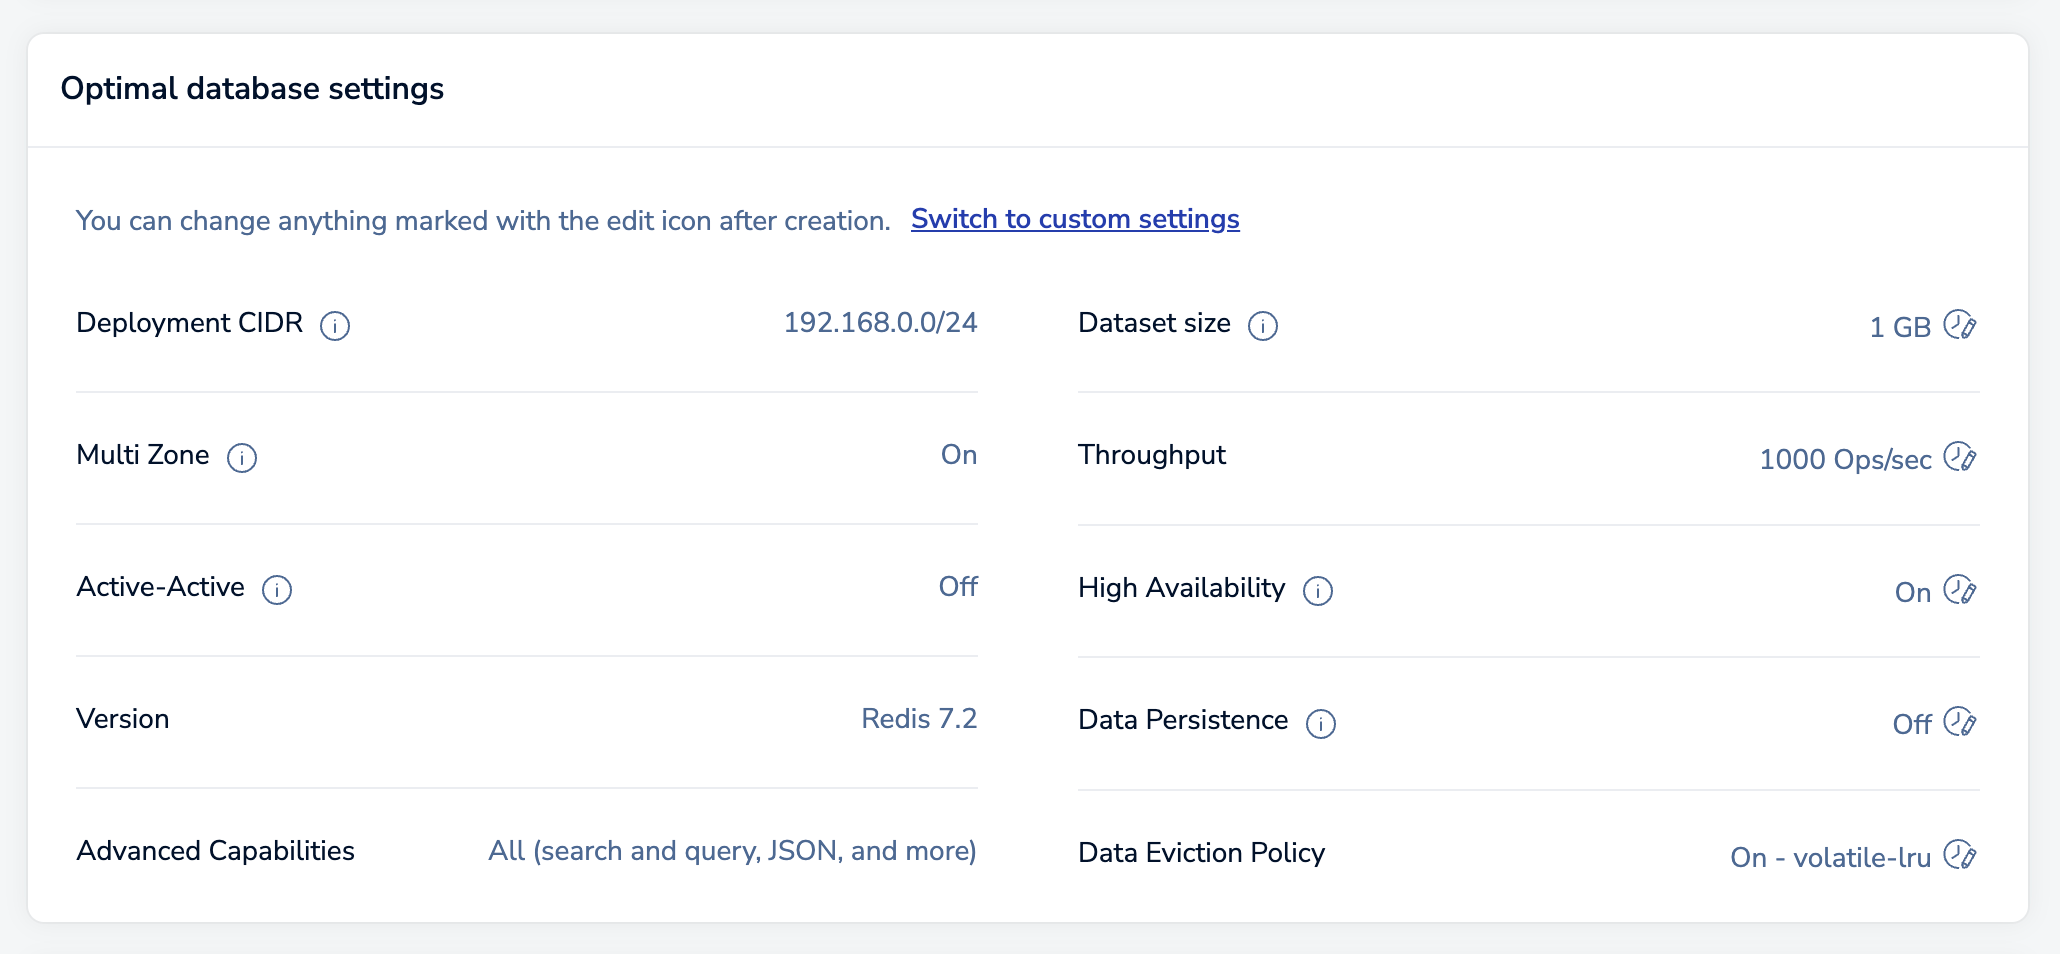
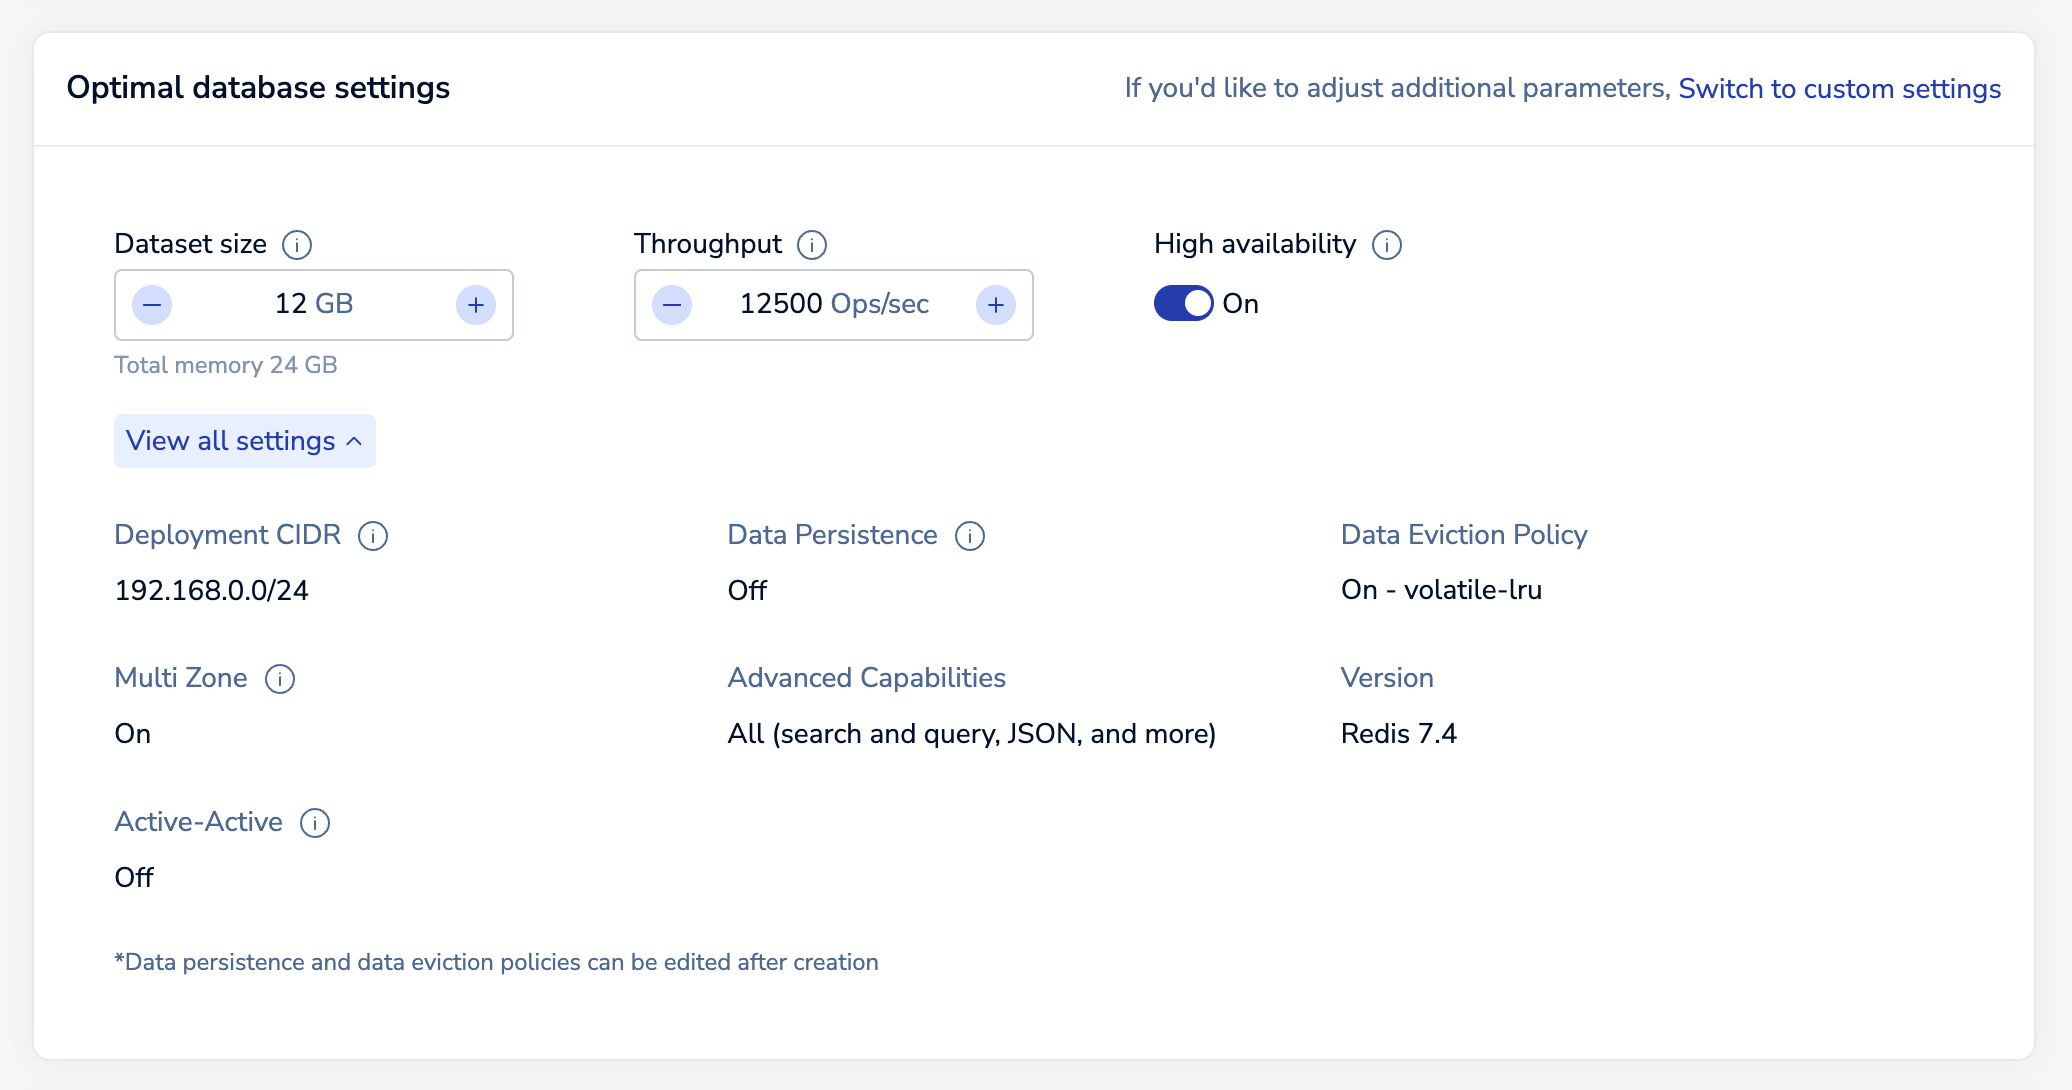
RC: Fix Easy create settings

diff --git a/content/operate/rc/databases/create-database/create-pro-database-new.md b/content/operate/rc/databases/create-database/create-pro-database-new.md
@@ -44,13 +44,21 @@ If you choose to create your database with Easy create:
 
 1. Choose a **Cloud Provider** and a **Region**.
 
-1. Review the **Optimal database settings** that we selected for you based on your use case.
+1. Enter the following settings for your database:
+
+    {{<image filename="images/rc/pro-easy-create-size-throughput.png" alt="The Dataset size, throughput, and High availability settings.">}}
+
+    | Database&nbsp;setting | Description |
+    |:---------|:-----------|
+    | **Dataset size (GB)** | The amount of data for your dataset. Specify small sizes as decimals of 1.0&nbsp;GB; example: `0.1` GB (minimum). We calculate the total memory limit for you based on the other settings you choose for your database. <br/> Databases with Search and query have specific sizing requirements, see [Search and query sizing]({{< relref "/operate/rc/databases/configuration/advanced-capabilities#search-and-query-sizing" >}}) for more information. |
+    | **Throughput** | Identifies maximum throughput for the database, which is specified in terms of operations per second (**Ops/sec**). See [Throughput]({{< relref "/operate/rc/databases/configuration/clustering#throughput" >}}) for more information. <br/> Databases with Search and query have specific throughput requirements, see [Search and query sizing]({{< relref "/operate/rc/databases/configuration/advanced-capabilities#search-and-query-sizing" >}}) for more information. |
+    | **High Availability** | Indicates whether a replica copy of the database is maintained in case the primary database becomes unavailable.  (Warning: Doubles memory consumption). See [High Availability]({{< relref "/operate/rc/databases/configuration/high-availability" >}}).  |
+
+1. Select **View all settings** to review the database settings that we selected for you based on your use case.
 
     {{<image filename="images/rc/pro-easy-create-optimal-settings.png" alt="The optimal database settings.">}}
 
-    Settings marked with the **Edit later** icon can be changed later. Anything not marked with this icon can't be changed after creation. If you want to change these settings, you can select [**Switch to custom settings**](#custom-settings).
-
-    {{<image filename="images/rc/pro-easy-create-edit-icon.png" alt="The Edit later icon." width=50px >}}
+    If you want to change these settings, select [**Switch to custom settings**](#custom-settings).
 
 1. Enter your payment details.
 
